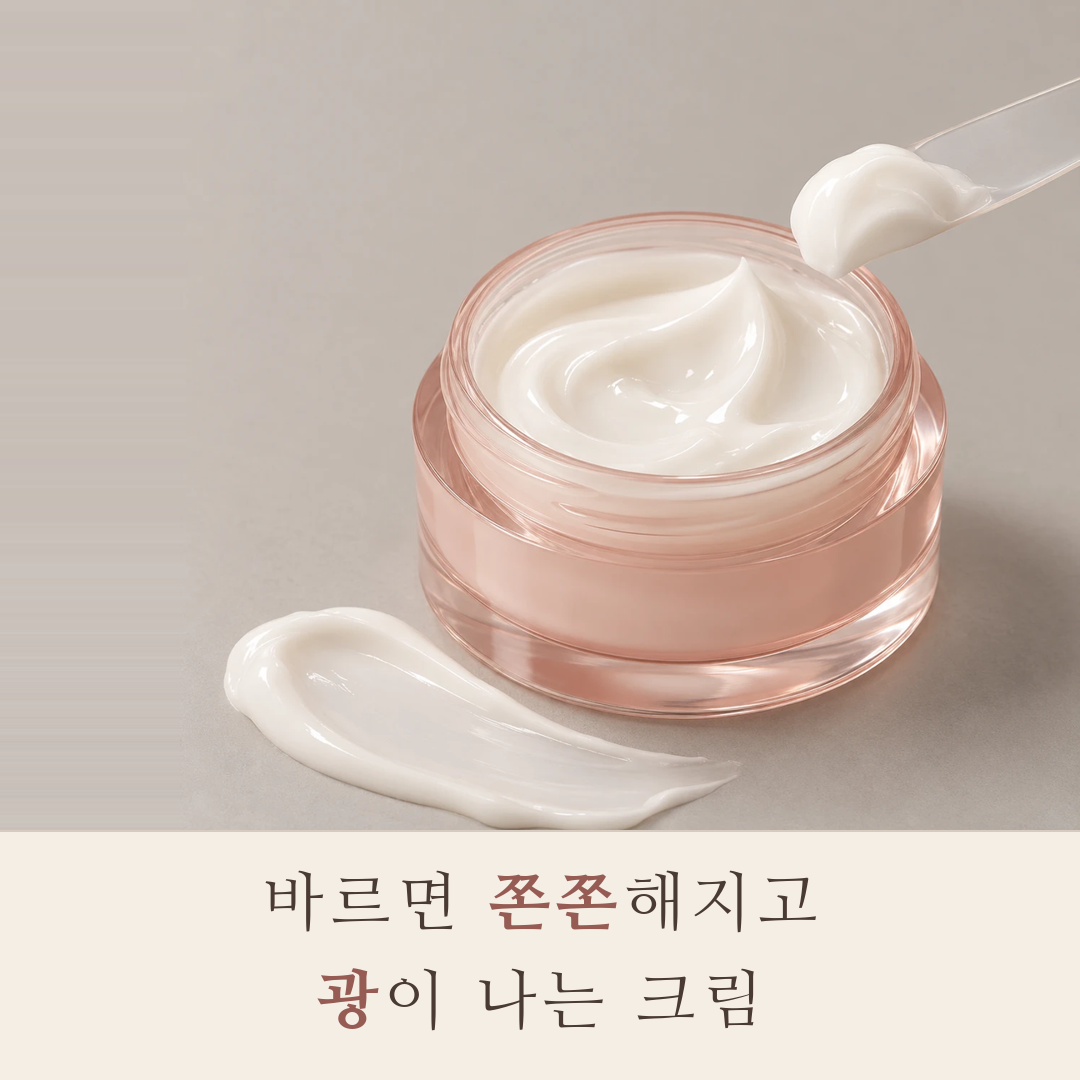
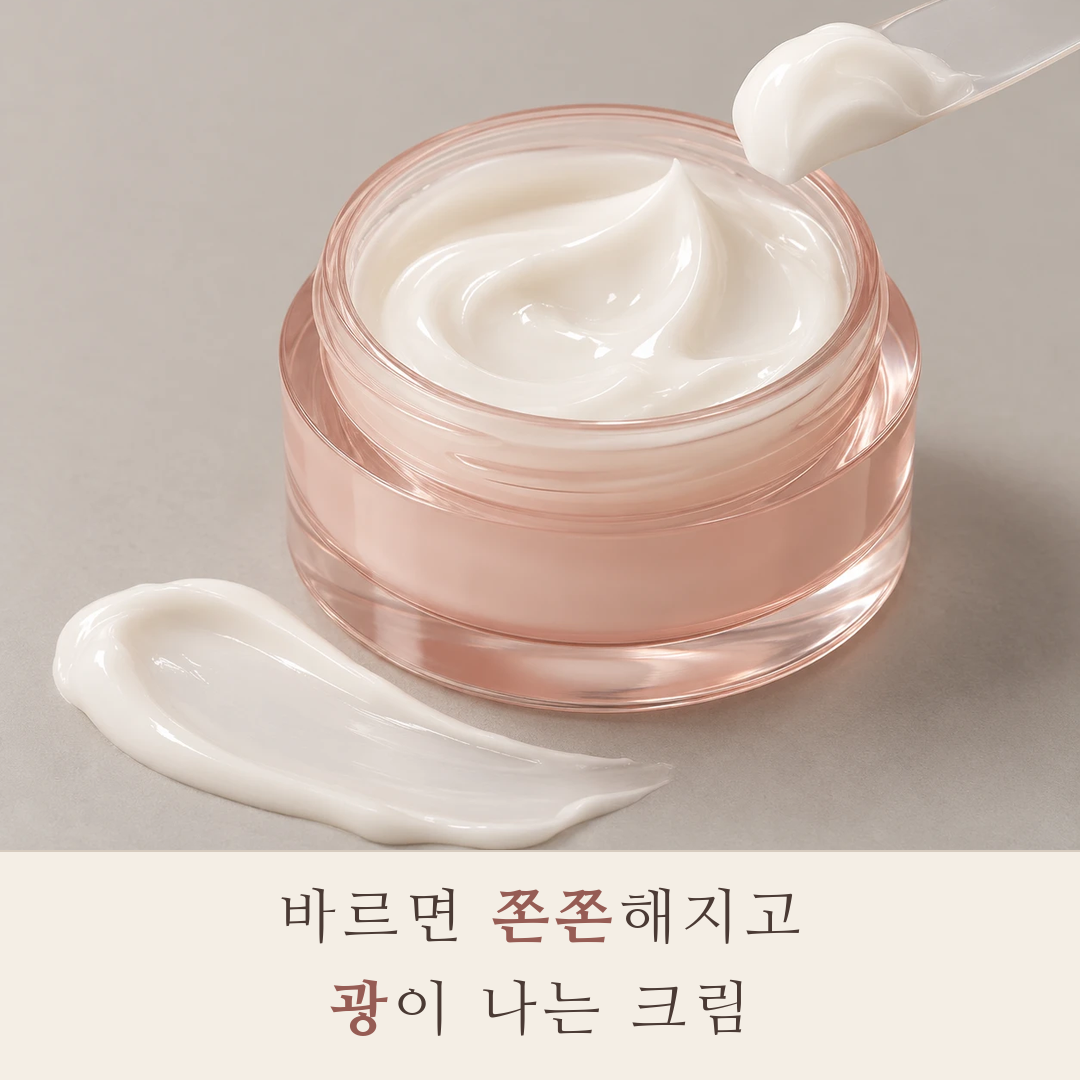
fix: centre the product in the round 2 ad images by using the photo unscaled

Changed region(s): [[0.0, 0.0, 1.0, 0.9778]]

diff --git a/ads/r2/make_overlay.py b/ads/r2/make_overlay.py
@@ -1,4 +1,4 @@
-"""Render the round-2 ad images: the round-1 texture photo with an ivory label below it.
+"""Render the round-2 ad images: the round-1 texture photo with an ivory label over its bottom edge.
 
 A and B share everything (photo, label, font, size, spacing, colours) except the copy.
 The compared words (PDRN / 쫀쫀, 광) are set in bold and in the accent colour.
@@ -20,12 +20,11 @@ FONT_INDEX_REGULAR = 0
 FONT_INDEX_ACCENT = 2  # ExtraBold
 
 CANVAS = 1080
-PHOTO_SIZE = 900
-LABEL_HEIGHT = 250
-FONT_SIZE = 64
+PHOTO_TOP_CROP = 150
+LABEL_HEIGHT = 230
+FONT_SIZE = 60
 TRACKING = 6
-LINE_HEIGHT = 98
-EDGE_SAMPLE = 6
+LINE_HEIGHT = 92
 
 INK = (74, 58, 52)
 ACCENT = (150, 92, 84)
@@ -43,17 +42,14 @@ COPIES = {
 
 
 def photo_on_canvas() -> Image.Image:
-    """Shrink the photo and keep it flush with the top and right edges so nothing in it is cut or faded.
+    """Use the photo at full size so the product stays centred and nothing is scaled or faded.
 
-    The empty strip on the left is filled by stretching the photo's own left edge, row by row,
-    so the backdrop continues without a seam.
+    The label covers the bottom of the canvas, so the photo is shifted up by PHOTO_TOP_CROP.
     """
-    photo = Image.open(BASE_IMAGE).convert("RGB").resize((PHOTO_SIZE, PHOTO_SIZE))
-    margin = CANVAS - PHOTO_SIZE
+    photo = Image.open(BASE_IMAGE).convert("RGB")
     canvas = Image.new("RGB", (CANVAS, CANVAS))
-    edge = photo.crop((0, 0, EDGE_SAMPLE, PHOTO_SIZE)).resize((1, PHOTO_SIZE)).resize((margin, PHOTO_SIZE))
-    canvas.paste(edge, (0, 0))
-    canvas.paste(photo, (margin, 0))
+    visible = photo.crop((0, PHOTO_TOP_CROP, CANVAS, PHOTO_TOP_CROP + CANVAS - LABEL_HEIGHT))
+    canvas.paste(visible, (0, 0))
     return canvas
 
 

diff --git a/ads/README.md b/ads/README.md
@@ -128,7 +128,7 @@ B: https://seongbun-dotbogi.vercel.app/concept?utm_source=facebook&utm_medium=cp
 - 기본 문구, 제목, 설명, 버튼은 1차와 글자까지 같게 둔다(2026-10-08). A와 B가 다른 것은 이미지 안 문구뿐이다
 - 인스타그램 계정은 연결하지 않는다(2026-10-08). 1차처럼 페이스북 페이지 이름으로 나간다
 - "여러 광고주의 광고", 어드밴티지+ 크리에이티브 개선 사항, 필수 개선 사항, 크리에이티브 설정은 1차처럼 모두 끈다. URL 매개변수 칸은 비운다
-- 그림 아래 아이보리 라벨에 문구를 넣는다: 나눔명조(SIL 오픈 폰트 라이선스), 64px, 자간 넓게, 가운데 정렬. 비교하는 낱말(A의 PDRN, B의 쫀쫀과 광)만 굵게 하고 로즈 색(#965C54)으로 구분한다. 사진은 조금 줄여 위에 두고 A와 B가 문구 말고는 모두 같다. A는 한 줄, B는 두 줄. `r2/make_overlay.py`로 만든다
+- 그림 아래 아이보리 라벨에 문구를 넣는다: 나눔명조(SIL 오픈 폰트 라이선스), 60px, 자간 넓게, 가운데 정렬. 비교하는 낱말(A의 PDRN, B의 쫀쫀과 광)만 굵게 하고 로즈 색(#965C54)으로 구분한다. 사진은 크기를 그대로 두고 위로 150px 올려 라벨이 제품을 가리지 않게 한다. A와 B가 문구 말고는 모두 같다. A는 한 줄, B는 두 줄. `r2/make_overlay.py`로 만든다
 - 영상은 하지 않는다(2026-10-06). 강사님 검수는 받지 않고 게시한다(2026-10-08)
 
 ```text
